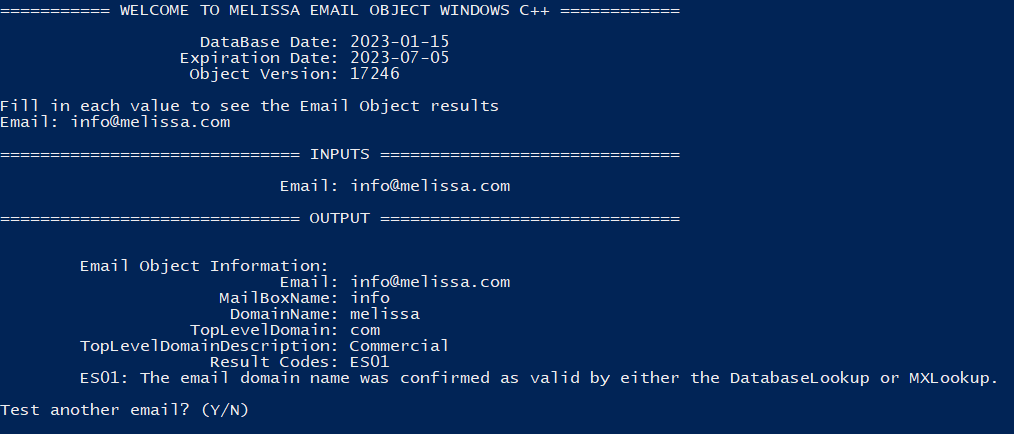
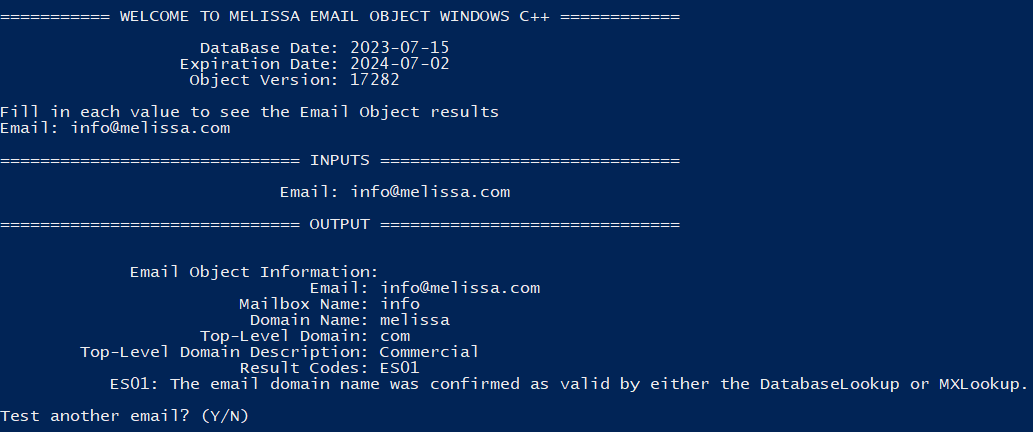
Tested successfully using Melissa data files for 2023.07

Changed region(s): [[0.0, 0.0, 0.6726, 0.5417], [0.0611, 0.6019, 1.0, 0.9028], [0.0, 0.9329, 0.2446, 0.9931]]

diff --git a/MelissaEmailObjectWindowsCpp/Main.cpp b/MelissaEmailObjectWindowsCpp/Main.cpp
@@ -91,20 +91,20 @@ void RunAsConsole(string license, string testEmail, string dataPath)
 
 		// Print output
 		cout << "\n============================== OUTPUT ==============================\n" << endl;
-		cout << "\n\tEmail Object Information:" << endl;
-		cout << "\t                    Email: " + string(dataContainer.Email)																				<< endl;
-		cout << "\t              MailBoxName: " + string(emailObject->mdEmailObj->GetMailBoxName())									<< endl;
-		cout << "\t               DomainName: " + string(emailObject->mdEmailObj->GetDomainName())									<< endl;
-		cout << "\t           TopLevelDomain: " + string(emailObject->mdEmailObj->GetTopLevelDomain())							<< endl;
-		cout << "\tTopLevelDomainDescription: " + string(emailObject->mdEmailObj->GetTopLevelDomainDescription())		<< endl;
-		cout << "\t             Result Codes: " + dataContainer.ResultCodes																					<< endl;
+		cout << "\n\t     Email Object Information:" << endl;
+		cout << "\t                       Email: " + string(dataContainer.Email)																				<< endl;
+		cout << "\t                Mailbox Name: " + string(emailObject->mdEmailObj->GetMailBoxName())									<< endl;
+		cout << "\t                 Domain Name: " + string(emailObject->mdEmailObj->GetDomainName())									<< endl;
+		cout << "\t            Top-Level Domain: " + string(emailObject->mdEmailObj->GetTopLevelDomain())							<< endl;
+		cout << "\tTop-Level Domain Description: " + string(emailObject->mdEmailObj->GetTopLevelDomainDescription())		<< endl;
+		cout << "\t                Result Codes: " + dataContainer.ResultCodes																					<< endl;
 
 		list<string> rs = SplitResultCodes(dataContainer.ResultCodes, ",");
 		list<string>::iterator it;
 
 		for (it = rs.begin(); it != rs.end(); it++)
 		{
-			printf("        %s: %s", it->c_str(), emailObject->mdEmailObj->GetResultCodeDescription(it->c_str(), emailObject->mdEmailObj->ResultCodeDescriptionLong));
+			printf("           %s: %s", it->c_str(), emailObject->mdEmailObj->GetResultCodeDescription(it->c_str(), emailObject->mdEmailObj->ResultCodeDescriptionLong));
 			cout << endl;
 		}
 

diff --git a/README.md b/README.md
@@ -9,20 +9,19 @@ For the latest Melissa Email Object release notes, please visit: https://release
 
 The console will ask the user for:
 
-- Email Address
+- Email 
 
 And return 
 
-- Mail Box Name
+- Mailbox Name
 - Domain Name
 - Top-Level Domain Name
 - Top-Level Domain Description
-- ResultCodes
+- Result Codes
 
 ## Tested Environments
-- Windows 64-bit Microsoft Visual C++ 14.34
-- Powershell 5.1
-- Melissa data files for 2023-06
+- Windows 10 64-bit Microsoft Visual C++ 14.34, Powershell 5.1
+- Melissa data files for 2023-07
 - Nmake 14.34
 - Visual Studio 2022 Developer Command Prompt v17.4.2 64-bit
 
@@ -44,7 +43,7 @@ This is the c++ code of the Melissa Object.
 These instructions will get you a copy of the project up and running on your local machine for development and testing purposes.
 
 #### Visual Studio Developer Command Prompt
-It is important to note that you must be able to initialize the Visual Studio Developer Command Prompt environment for `x86_x64` in order to test the Melissa Phone Object. The Visual Studio Developer Command Prompt should already be downloaded if you have Microsoft Visual Studio installed. 
+It is important to note that you must be able to initialize the Visual Studio Developer Command Prompt environment for `x86_x64` in order to test the Melissa Email Object. The Visual Studio Developer Command Prompt should already be downloaded if you have Microsoft Visual Studio installed. 
 
 To check if you are able to intialize the Visual Studio Developer Command Prompt for `x86_x64`, you can open the start menu and search for `x86_x64 Cross Tools Command Prompt for VS 2022`. If this program exists, then you may continue to the next steps.
 
@@ -60,7 +59,7 @@ The console will then prompt you with the following warning shown in the image b
 
 #### Download this project
 ```
-$ git clone https://github.com/MelissaData/EmailObject-Cpp.git
+$ git clone https://github.com/MelissaData/EmailObject-Cpp
 $ cd EmailObject-Cpp
 ```
 
